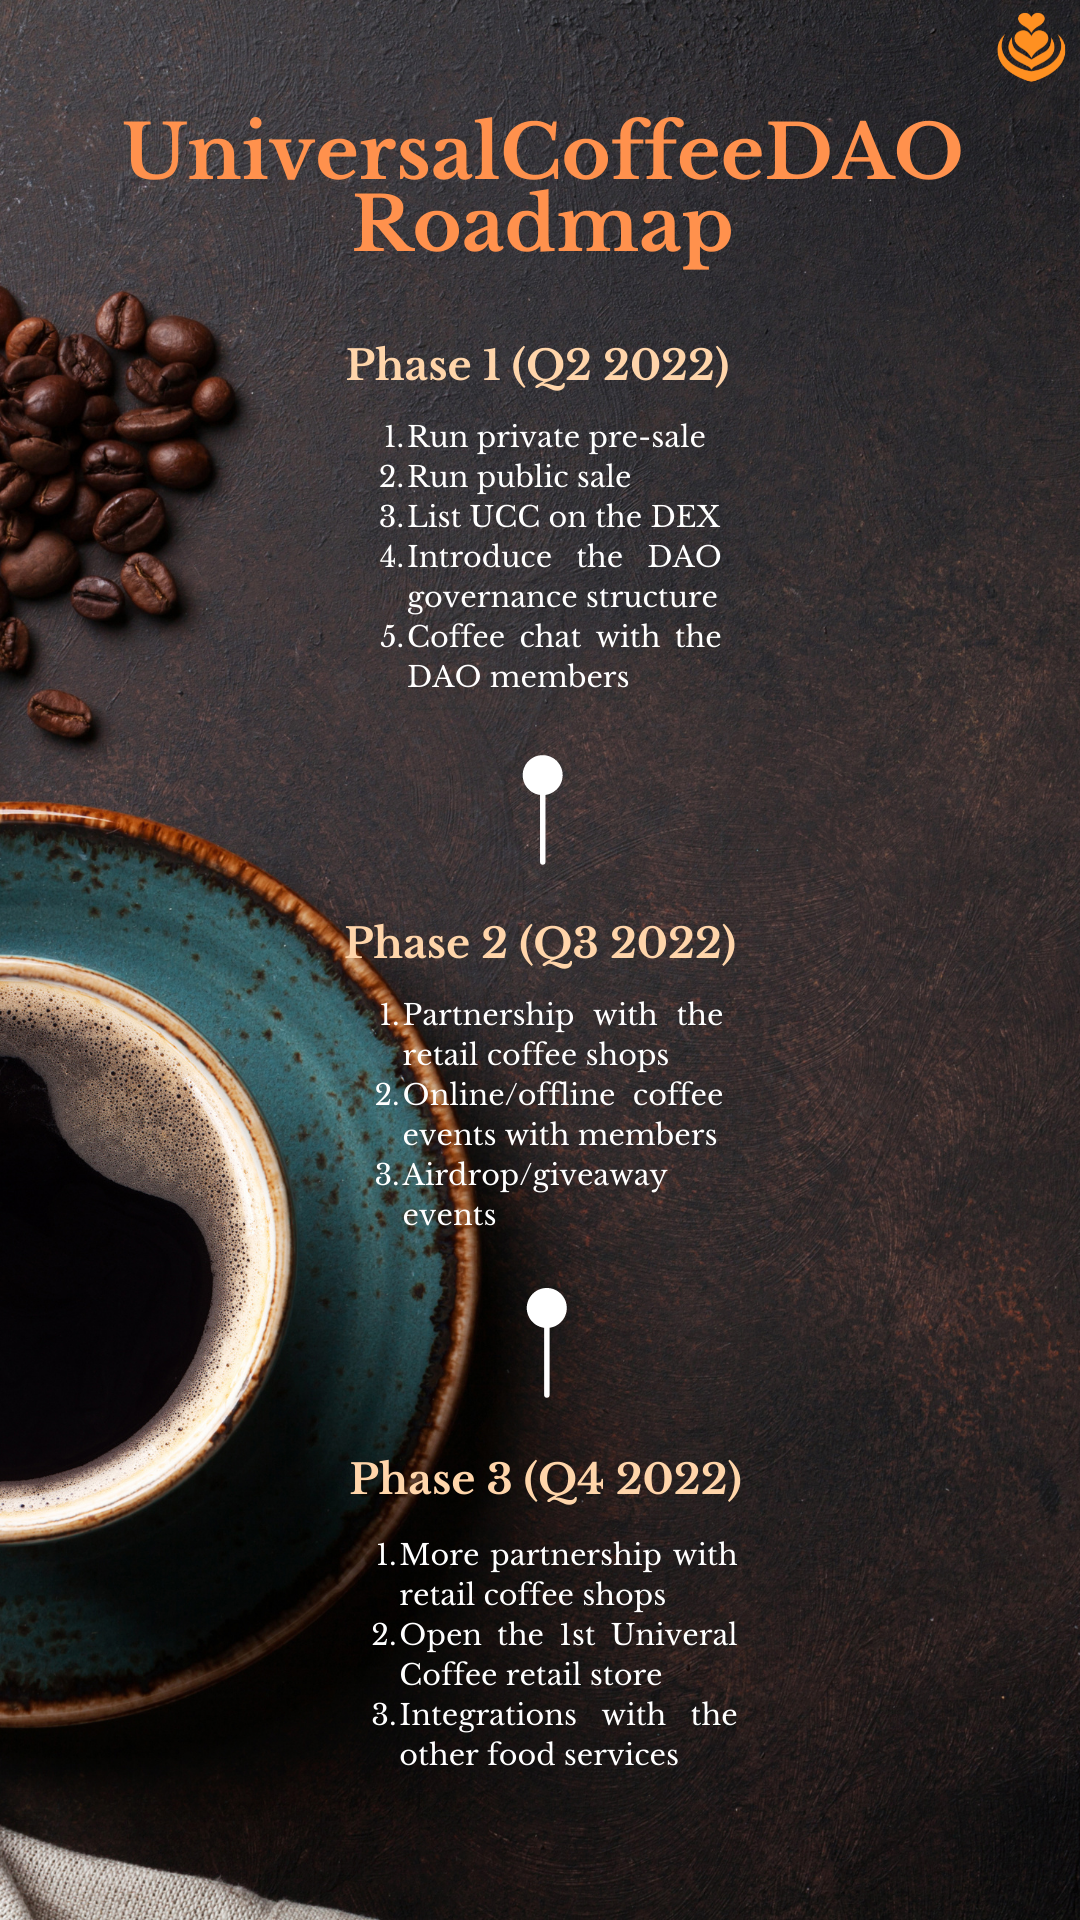
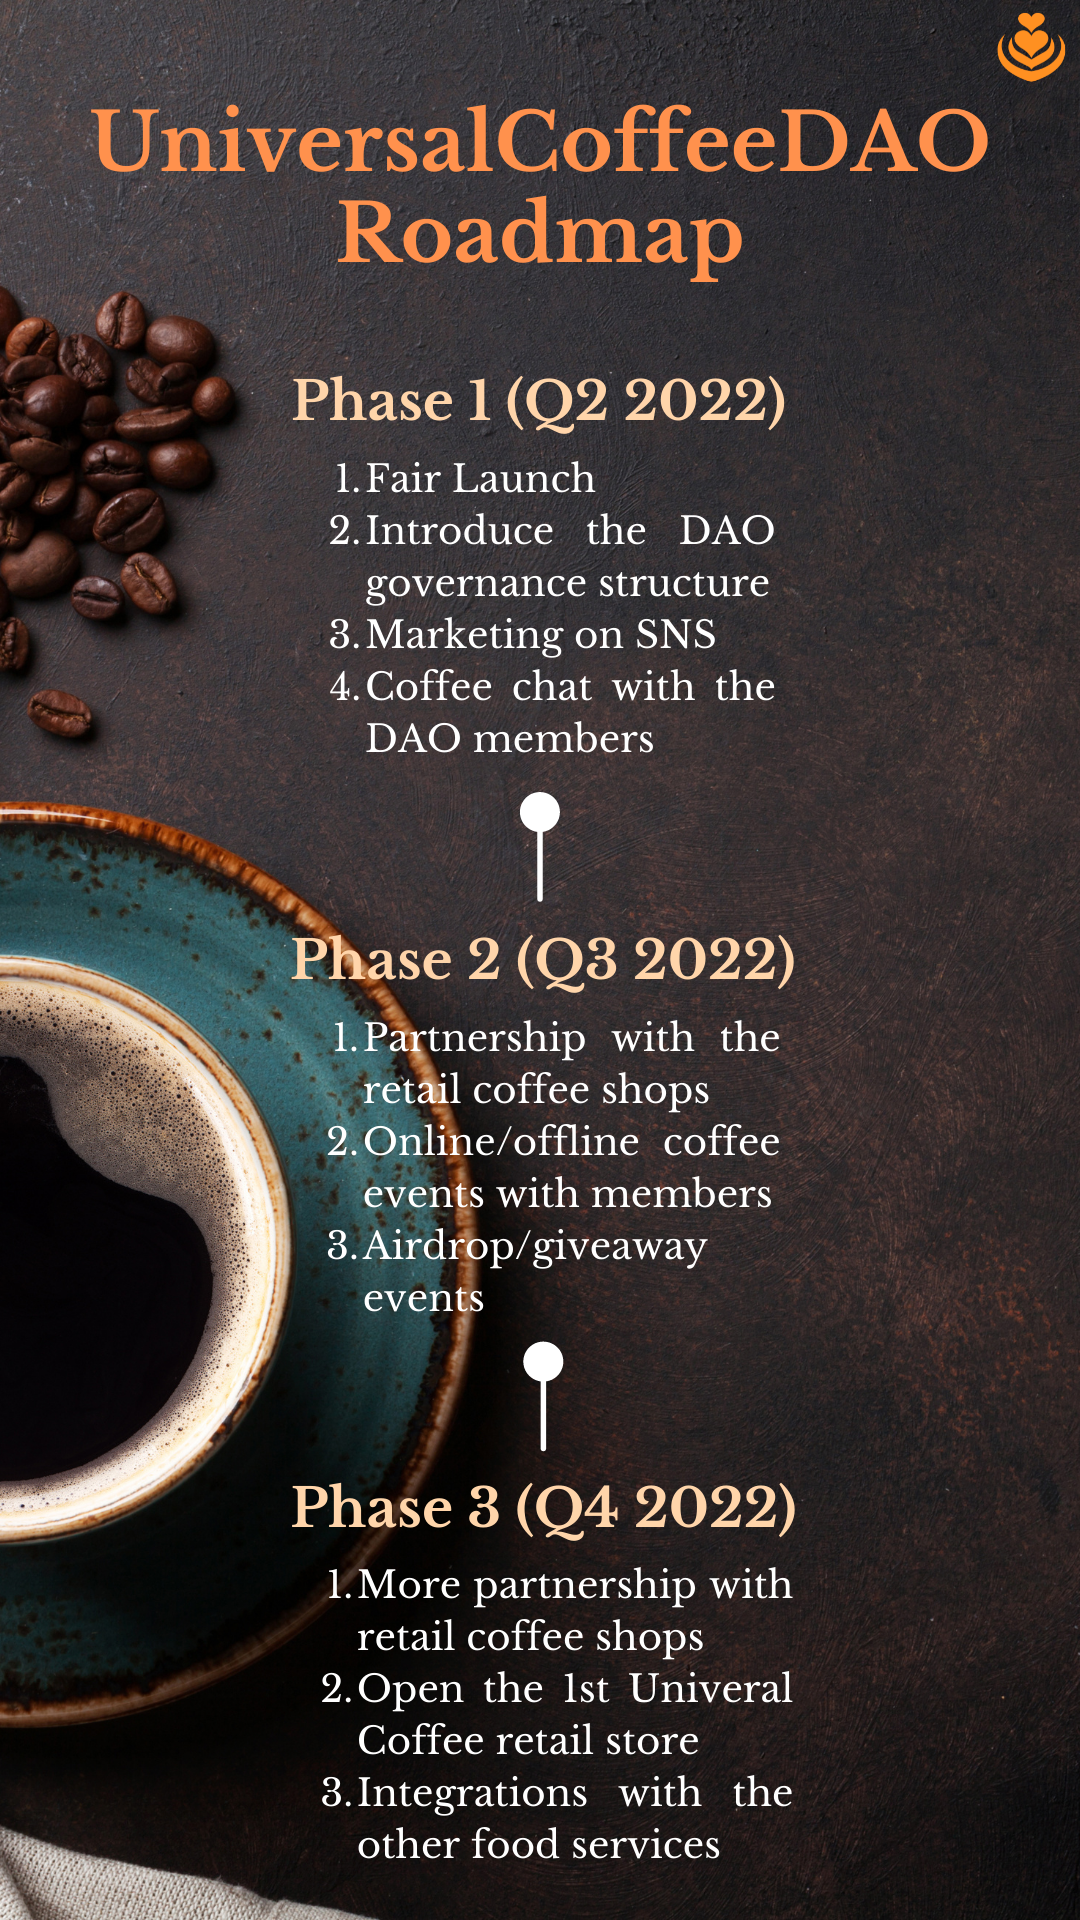
Revised roadmap, header, and quickswap url

Changed region(s): [[0.0917, 0.0312, 0.9167, 0.9688], [0.6722, 0.3438, 0.7028, 0.375]]

diff --git a/src/Components/HeroArea/HeroArea.tsx b/src/Components/HeroArea/HeroArea.tsx
@@ -25,14 +25,14 @@ const HeroArea: React.FC = () => {
             </div>
             <a
               target="_blank"
-              style={{ textDecoration: "none", display: "flex" }}
+              style={{ textDecoration: "none" }}
               className={styles.heroArea_right_wrapper}
             >
               <Button
                 variant="contained"
                 color="primary"
                 className={styles.heroArea_rightButton}
-                href="https://quickswap.exchange/#/swap?inputCurrency=&outputCurrency=0x35C3c8096CDe3c13a565b68d17b9Bf1f9836B9eB"
+                href="https://quickswap.exchange/#/swap?inputCurrency=0x8f3Cf7ad23Cd3CaDbD9735AFf958023239c6A063&outputCurrency=0x35C3c8096CDe3c13a565b68d17b9Bf1f9836B9eB"
                 target="_blank"
               >
                 Buy On Quickswap
@@ -41,10 +41,10 @@ const HeroArea: React.FC = () => {
                 variant="contained"
                 color="primary"
                 className={styles.heroArea_rightButton}
-                href="https://discord.gg/7D22JUbqPW"
+                href="https://calendly.com/eric6/30min"
                 target="_blank"
               >
-                Join Our Discord
+                Meet The Team
               </Button>
             </a>
           </Grid>

diff --git a/src/Components/Store/Store.tsx b/src/Components/Store/Store.tsx
@@ -9,24 +9,26 @@ import roadmap from "./roadmap.png";
 const Store: React.FC = () => {
   return (
     <div className={styles.store_wrapper}>
-      <Container>
-        <Grid container className={styles.store_content}>
-          <Grid
-            item
-            md={12}
-            sm={12}
-            xs={12}
-            className={styles.store_left_content}
-          >
-            <img
-              src={roadmap}
-              alt="roadmap"
-              style={{ width: "100%" }}
-              id="roadmap"
-            />
-          </Grid>
+      <Grid container className={styles.store_content}>
+        <Grid
+          item
+          lg={12}
+          md={12}
+          sm={12}
+          xs={12}
+          className={styles.store_left_content}
+        >
+          <img
+            src={roadmap}
+            alt="roadmap"
+            style={{
+              width: "100vw",
+              maxWidth: "800px",
+            }}
+            id="roadmap"
+          />
         </Grid>
-      </Container>
+      </Grid>
     </div>
   );
 };

diff --git a/src/Components/HeroArea/HeroArea.module.scss b/src/Components/HeroArea/HeroArea.module.scss
@@ -108,19 +108,22 @@
       align-items: center;
       margin-top: 3em;
       @media screen and (max-width: 899px) {
+        margin-top: 1em;
+        align-items: center;
+
         justify-content: center;
       }
       .heroArea_rightButton {
         padding: 15px 20px;
         border-radius: 8rem;
-        background-color: #523a28;
+        background-color: #000000;
         -webkit-transition: color 0.2s ease-in-out,
           background-color 0.2s ease-in-out;
         transition: color 0.2s ease-in-out, background-color 0.2s ease-in-out;
         color: #ffa74f;
         font-weight: 600;
         font-size: 21px;
-        margin-right: 1em;
+        margin-right: 1.5em;
 
         &:hover {
           background-color: #ffa74f;
@@ -128,7 +131,9 @@
         }
         @media screen and (max-width: 599px) {
           font-size: 1.1rem;
-          padding: 15px 32px;
+          padding: 15px 33px;
+          margin-bottom: 1em;
+          margin-right: 0em;
         }
       }
     }

diff --git a/src/Components/Layout/Navbar/Header.tsx b/src/Components/Layout/Navbar/Header.tsx
@@ -105,12 +105,12 @@ const Header: React.FC = () => {
                           <FaDiscord />
                         </a>
                       </li>
-                      <li>
+                      {/* <li>
                         <a href="https://t.me/ucdaoopenchat" target="_blank">
                           <FaTelegram />
                         </a>
-                      </li>
-                      <li>
+                      </li> */}
+                      {/* <li>
                         <a
                           href={`mailto:universalcoffeecoin@gmail.com`}
                           target="_top"
@@ -119,7 +119,7 @@ const Header: React.FC = () => {
                         >
                           Contact us
                         </a>
-                      </li>
+                      </li> */}
                       {/* <li>
                         <a href="https://medium.com/" target="_blank">
                           <FaMedium />

diff --git a/src/Components/Layout/Navbar/MenuDrawer.tsx b/src/Components/Layout/Navbar/MenuDrawer.tsx
@@ -136,7 +136,7 @@ export default function MenuDrawer() {
                     <FaDiscord />
                   </a>
                 </li>
-                <li>
+                {/* <li>
                   <a
                     href="https://t.me/ucdaoopenchat"
                     style={{
@@ -149,7 +149,7 @@ export default function MenuDrawer() {
                   >
                     <FaTelegram />
                   </a>
-                </li>
+                </li> */}
                 {/* <li>
                   <a
                     href="https://medium.com"

diff --git a/src/Components/Layout/Footer/Footer.tsx b/src/Components/Layout/Footer/Footer.tsx
@@ -52,11 +52,11 @@ const Footer: React.FC = () => {
                       <FaDiscord />
                     </a>
                   </li>
-                  <li>
+                  {/* <li>
                     <a href="https://t.me/ucdaoopenchat" target="_blank">
                       <FaTelegram />
                     </a>
-                  </li>
+                  </li> */}
                   <li>
                     <a
                       href="https://github.com/universalcoffeedao"

diff --git a/src/Components/Store/Store.module.scss b/src/Components/Store/Store.module.scss
@@ -6,6 +6,7 @@
     .store_left_content {
       display: flex;
       align-items: center;
+      justify-content: center;
       h3 {
         max-width: 45rem;
         font-size: 3.75rem;
@@ -19,6 +20,7 @@
         }
       }
     }
+
     .store_right_content {
       h6 {
         max-width: 28rem;
